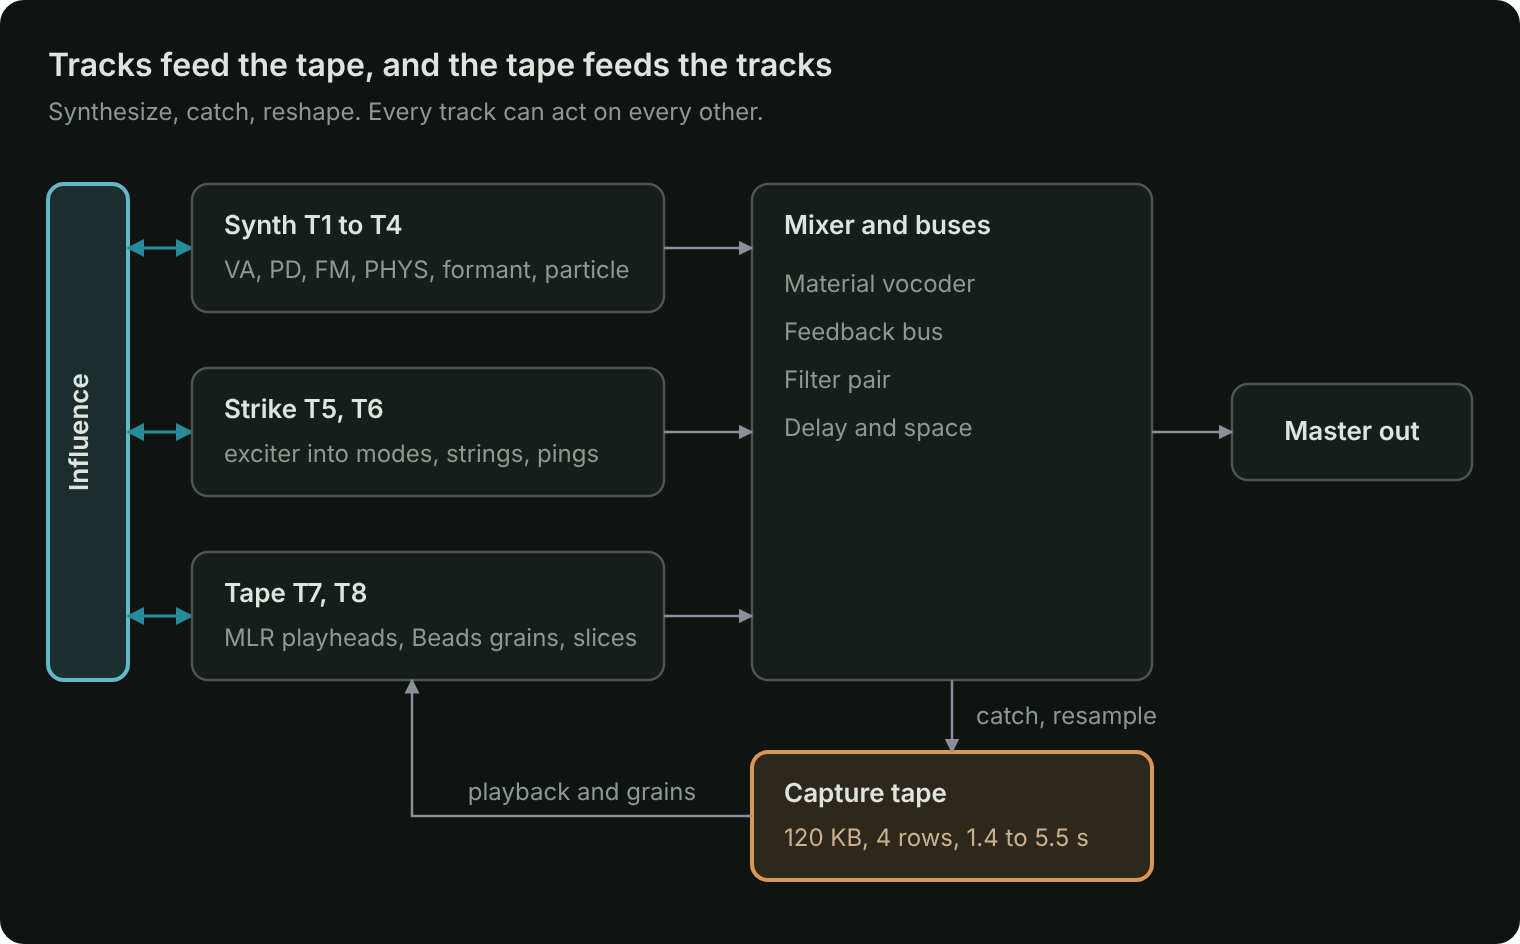
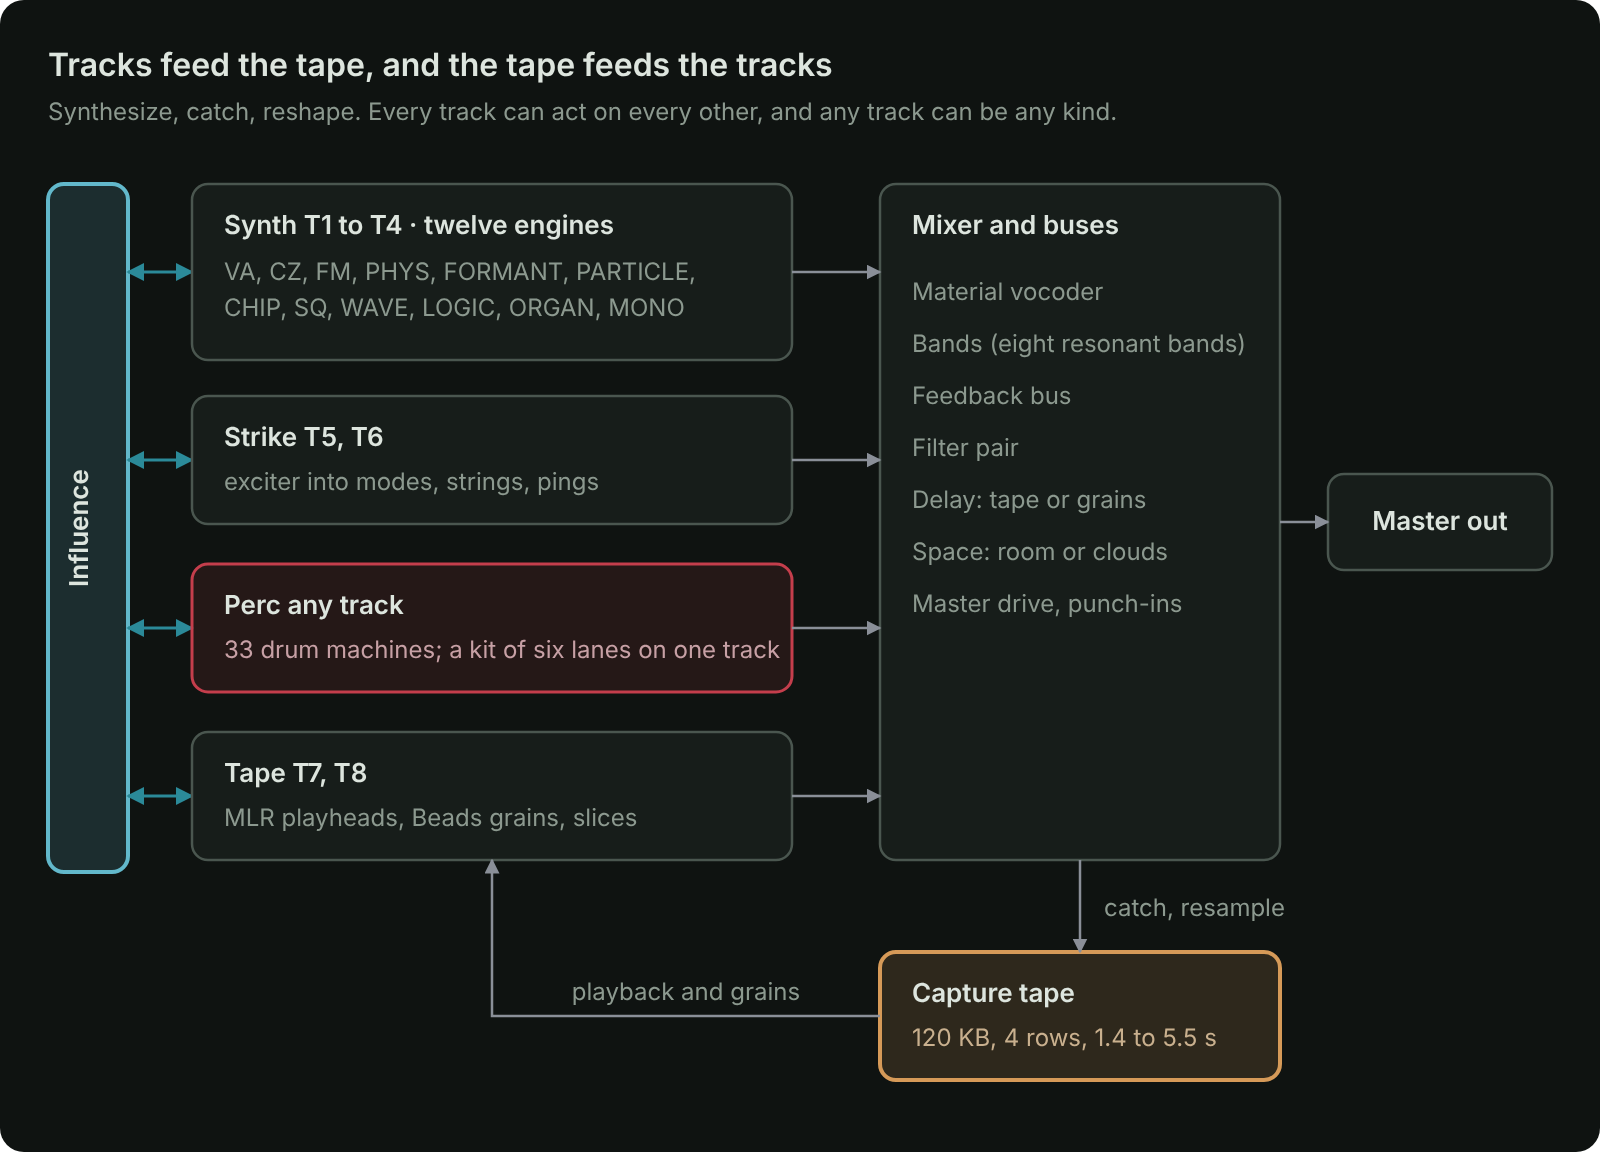
Signal-flow diagram on the emulator page; diagram shows the new engines
- docs/signal-flow.svg: twelve synth engines, PERC tracks, BANDS,
  grains and clouds modes; the PNG is re-rendered from it
- Emulator: a "How it fits together" card under the FM-1 with the
  diagram (inlined by bundle.py) and a full "Playing it" controls table
- README: buses and track kinds in the overview and the flow steps

Claude-Session: https://claude.ai/code/session_01BwzGhPZLDZkrxZk5dy3Yyf

diff --git a/web/emu/index.html b/web/emu/index.html
@@ -125,6 +125,13 @@ td:first-child { color: var(--ink); white-space: nowrap; font-weight: 500; }
 .mute.on { background: var(--red); color: #fff; border-color: var(--red); }
 kbd { font: 500 11px var(--mono); border: 1px solid var(--line); border-radius: 3px; padding: 0 4px; color: var(--ink); }
 .hint { font: 400 11.5px var(--mono); color: var(--muted); }
+.card.wide { grid-column: 1 / -1; }
+.flow svg { display: block; width: 100%; max-width: 800px; height: auto; margin: 0 auto; }
+.howto { display: grid; grid-template-columns: minmax(0, 1fr) minmax(0, 1.2fr); gap: 6px 24px; }
+.howto table { border-collapse: collapse; width: 100%; }
+.howto td { padding: 4px 8px 4px 0; vertical-align: top; border-top: 1px solid var(--line); }
+.howto td:first-child { white-space: nowrap; }
+@media (max-width: 1100px) { .howto { grid-template-columns: 1fr; } .howto td:first-child { white-space: normal; } }
 
 @media (max-width: 1100px) {
   .upper { grid-template-columns: auto minmax(0, 1fr); }
@@ -254,10 +261,31 @@ kbd { font: 500 11px var(--mono); border: 1px solid var(--line); border-radius: 
         <div class="krow" id="blackrow"></div>
         <div class="krow" id="whiterow"></div>
       </div>
-      <div class="hint">Drag or scroll the knobs. Click a button to press it; <b>right-click or shift-click</b> holds it down (for the hold layers), click again to let go. Keys: your mouse, touch, or your keyboard: <kbd>Z</kbd>…<kbd>M</kbd> play the lowest seven keys (F up to B, one key each), then <kbd>A</kbd>…<kbd>'</kbd> the white keys from C, with <kbd>W</kbd> <kbd>E</kbd> <kbd>T</kbd> <kbd>Y</kbd> <kbd>U</kbd> <kbd>O</kbd> <kbd>P</kbd> the black keys.</div>
+      <div class="hint">Mouse, touch or your computer keyboard: see <b>Playing it</b> below.</div>
     </section>
 
   <div class="lower">
+    <section class="card wide" aria-label="How Ravel fits together">
+      <h2>How it fits together</h2>
+      <div class="flow"><!--RAVEL_FLOW--></div>
+      <h2 style="margin-top:14px">Playing it</h2>
+      <div class="howto">
+        <table>
+          <tr><td><b>Knobs</b></td><td>drag up and down, or scroll over them</td></tr>
+          <tr><td><b>Buttons</b></td><td>click to press; <b>right-click</b> or <b>shift-click</b> holds one down for its hold layer, click again to let go; <kbd>Esc</kbd> lets go of all of them</td></tr>
+          <tr><td><b>Keys</b></td><td>click or touch them, or play them from your keyboard</td></tr>
+        </table>
+        <table>
+          <tr><td><kbd>Z</kbd> <kbd>X</kbd> <kbd>C</kbd> <kbd>V</kbd> <kbd>B</kbd> <kbd>N</kbd> <kbd>M</kbd></td><td>the lowest seven keys in order: F, F♯, G, G♯, A, A♯, B</td></tr>
+          <tr><td><kbd>A</kbd> <kbd>S</kbd> <kbd>D</kbd> <kbd>F</kbd> <kbd>G</kbd> <kbd>H</kbd> <kbd>J</kbd> <kbd>K</kbd> <kbd>L</kbd> <kbd>;</kbd> <kbd>'</kbd></td><td>the white keys from C4 up</td></tr>
+          <tr><td><kbd>W</kbd> <kbd>E</kbd> <kbd>T</kbd> <kbd>Y</kbd> <kbd>U</kbd> <kbd>O</kbd> <kbd>P</kbd></td><td>the black keys from C♯4 up</td></tr>
+          <tr><td><kbd>[</kbd> <kbd>]</kbd></td><td>OCT- and OCT+</td></tr>
+          <tr><td><kbd>1</kbd>…<kbd>8</kbd></td><td>choose the track</td></tr>
+          <tr><td><kbd>←</kbd> <kbd>→</kbd></td><td>SELECT: the page</td></tr>
+          <tr><td><kbd>Space</kbd></td><td>PLAY</td></tr>
+        </table>
+      </div>
+    </section>
     <section class="card" aria-label="Controls guide">
       <h2>Controls guide <button class="hbtn" id="manualbtn2" style="float:right">Full manual</button></h2>
       <div class="tabs" id="gtabs"></div>

diff --git a/web/emu/bundle.py b/web/emu/bundle.py
@@ -15,6 +15,9 @@ if len(sys.argv) > 1:
     out = pathlib.Path(sys.argv[1])
 out.parent.mkdir(parents=True, exist_ok=True)
 page = page.replace('"__RAVEL_WASM__"', '"' + wasm + '"', 1)
+flow = (root / "docs" / "signal-flow.svg").read_text()      # the README's diagram, inline on the page
+assert "<!--RAVEL_FLOW-->" in page
+page = page.replace("<!--RAVEL_FLOW-->", flow.strip(), 1)
 sys.path.insert(0, str(root / "tools"))
 import ravel_icons
 page = ravel_icons.apply(page)

diff --git a/README.md b/README.md
@@ -11,7 +11,7 @@
 Ravel is a custom firmware for the M-VAVE FM-1 that turns the FM-1 into a pocket groovebox for sound design. It has 8 tracks that synthesize, catch what they play onto a shared tape, cut it up & rebuild it with tracks that can play, excite, and reshape one another
 
 <p align="center">
-  <img src="docs/signal-flow.svg" alt="Signal flow: synth, strike and tape tracks feed the mixer and buses; the mixer feeds the capture tape, which plays back into the tape tracks; an influence band connects every track to every other" width="760">
+  <img src="docs/signal-flow.svg" alt="Signal flow: synth (twelve engines), strike, perc and tape tracks feed the mixer and buses; the mixer feeds the capture tape, which plays back into the tape tracks; an influence band connects every track to every other" width="760">
 </p>
 
 **Status: playable in the emulator; the FM-1 firmware builds, but has not been run on an FM-1 yet.** The whole instrument runs in the browser emulator and the desktop simulator, from the same C sources the firmware is built from. The FM-1 firmware is bare metal (no vendor SDK) on the open hardware layer of the Felucca family of community firmwares, and installs from a web installer over USB. Until it has been tried on hardware, treat it as experimental.
@@ -27,7 +27,7 @@ Ravel is a custom firmware for the M-VAVE FM-1 that turns the FM-1 into a pocket
 - **Articulation:** onset, continuant and termination stages with curve, overshoot, a loop, a tail and **Give** (a spring that lets the level lag and bounce), two destinations, and a 256-shape envelope library that steps can recall.
 - **Sequencer:** each track runs in **STEPS** or **GRAPH** mode. Steps: length, rate and direction, parameter locks, microtiming, ratchets with curves, conditions, chance. Graph (from Silt): cords set where a playhead goes next, two playheads walk the same graph, each playing notes, only the gate, or only the pitch (so rhythm and melody can take different paths), head 2 can play another track, and each head has a function generator (rise, fall, arch, decay, swell, or an LFO or dust) that moves its speed, times or plus the clock. Plus density arcs, a per-track note interval, scale quantizing, René-style clocking from LFOs or dust, and a two-oscillator master clock.
 - **Modulation:** two LFOs, dust, an 8-slot matrix and 4 macros with 8 destinations each (curves and windows).
-- **Buses:** a stereo delay (spread, wobble, freeze), a space reverb (motion, diffusion, low cut), a feedback bus (filter, comb, smear, shift, fold or crush, returning to the master or into a track), a filter pair (low, band or high pass each; series, parallel or feedback, with two LFOs), an 8-band vocoder (its body is dust, drops, noise, the tape or a track; attack, release, shift, width), and master drive with microcuts and punch-in effects on the keys. Each bus page shows the current track's send into it.
+- **Buses:** a stereo delay (spread, wobble, freeze) that can become a Beads-style grain cloud, a space reverb (motion, diffusion, low cut; ROOM or a long Clouds-style plate), a feedback bus (filter, comb, smear, shift, fold or crush, returning to the master or into a track), a filter pair (low, band or high pass each; series, parallel or feedback, with two LFOs), an 8-band vocoder (its body is dust, drops, noise, the tape or a track; attack, release, shift, width), BANDS (eight resonant bands, like a fixed filter bank), and master drive with microcuts and punch-in effects on the keys. Each bus page shows the current track's send into it.
 - **Song:** patterns A and B per track, 16 scenes, a 32-row arrangement, mute and solo, tap tempo, 8 project slots.
 
 **New here?** Open the emulator ([Opening it](#1-opening-it)), load a demo, press Play, then read [The five moves](#3-the-five-moves-how-every-page-works). Everything else is reference.
@@ -135,7 +135,7 @@ The ten sections:
 | **EDIT** | Voice | The current track's sound: engine, source pages, pitch, filter, skin, insert, mix, sends |
 | **ENV** | Articulation | How a note starts, holds and ends, and the 256-shape library |
 | **LFO** | Mod | Mod matrix, LFO 1, LFO 2, dust, macros |
-| **FX** | Buses | Delay, space, feedback, filter pair, vocoder, master |
+| **FX** | Buses | Delay, space, feedback, filter pair, vocoder, bands, master |
 | **SCL** | Scale | Root, scale, transpose, interval |
 | **ARP** | Tape | Capture, rows, and how a tape track plays the tape |
 | **SEQ** | Steps | Steps, step timing and shape, track settings, direction, graph and playheads |
@@ -197,8 +197,8 @@ Ravel has **8 tracks**. Each track is one of four kinds, and any track can be an
 
 How the sound flows:
 
-1. **Each track** makes sound. On synth and strike tracks the sound goes: source → filter → skin (drive, fold, bits) → insert effect → articulation (the amplitude envelope) → level and pan.
-2. **The mixer** adds the tracks together. Each track also **sends** some of its sound to the five **buses** (delay, space, feedback, filter pair, vocoder), and the buses return into the mix.
+1. **Each track** makes sound. On synth, strike and perc tracks the sound goes: source → filter → skin (drive, fold, bits) → insert effect → articulation (the amplitude envelope) → level and pan.
+2. **The mixer** adds the tracks together. Each track also **sends** some of its sound to the six **buses** (delay or grains, space, feedback, filter pair, vocoder, bands), and the buses return into the mix.
 3. **The master** applies drive and microcuts, then a safety limiter, then goes to the output.
 4. **The capture tape** is always listening. By default it hears the master, but it can hear one track, the buses or the audio input instead (ARP › CAPTURE › SOURCE). When you **catch** or **resample**, what it heard is kept, and the **tape tracks** play it back. That is the loop at the heart of Ravel: *synthesize → catch → rebuild*.
 5. **Influence** connects tracks to each other. One track's notes or audio can trigger, modulate, excite, ring, clock or jump the tape of another (HOME › INFLUENCE).
